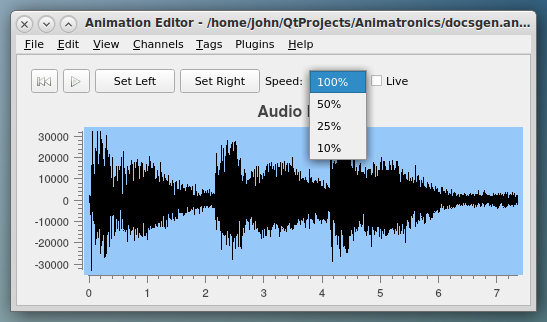
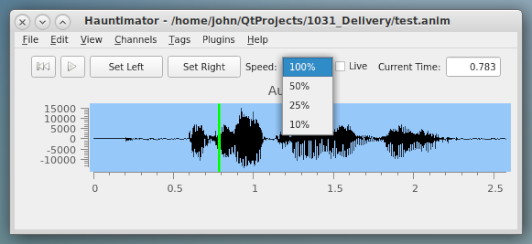
Made audio start time uneditable since the Pico can't do anything with that.
Added the current playback time display to the playback widget.

diff --git a/MainWindow.py b/MainWindow.py
@@ -2420,6 +2420,7 @@ class MetadataWidget(QDialog):
         self._audioedit = None
         if self._animatronics.newAudio is not None:
             self._audioedit = QLineEdit(str(self._animatronics.newAudio.audiostart))
+            self._audioedit.setReadOnly(True)
             layout.addRow(QLabel('Audio Start Time:'), self._audioedit)
             layout.addRow(QLabel('Audio File:'))
             self._audiofile = QLineEdit('')
@@ -3028,7 +3029,19 @@ class Player(QWidget):
         self.liveCheck.setToolTip('Enables real-time output to control animation')
         layout.addWidget(self.liveCheck)
 
+        tlabel = QLabel('Current Time:')
+        layout.addWidget(tlabel)
+        self._currTime = QLineEdit()
+        self._currTime.setAlignment(Qt.AlignRight)
+        self._currTime.setMaxLength(9)
+        self._currTime.setText('0.000')
+        self._currTime.setMinimumWidth(60)
+        self._currTime.setMaximumWidth(60)
+        self._currTime.setReadOnly(True)    # Read only for now but may want to be able to type here to set time
+        layout.addWidget(self._currTime)
+
         layout.addStretch()
+        layout.setContentsMargins(11,1,11,1)
 
         self.setLayout(layout)
 
@@ -3055,6 +3068,7 @@ class Player(QWidget):
         self._endPosition = int(maxTime * 1000)
 
     def setCurrentPosition(self, newTime):
+        self._currTime.setText('%.3f' % newTime)
         newTime = int(newTime * 1000)
         if self.mediaPlayer is not None:
             self.mediaPlayer.setPosition(newTime)
@@ -3111,6 +3125,7 @@ class Player(QWidget):
             # Send the updated position (time) to all the callbacks
             for cb in self.timeChangedCallbacks:
                 cb(float(self.currPosition) / 1000.0)
+        self._currTime.setText('%.3f' % (float(self.currPosition) / 1000.0))
 
     def rewind(self):
         """
@@ -3126,6 +3141,7 @@ class Player(QWidget):
         self.stopplaying()
         for cb in self.timeChangedCallbacks:
             cb(float(self.currPosition) / 1000.0)
+        self._currTime.setText('%.3f' % (float(self.currPosition) / 1000.0))
         pass
 
     def startplaying(self):

diff --git a/docs/Help.md b/docs/Help.md
@@ -57,7 +57,7 @@ The Hauntimator GUI consists of, from top to bottom, a menubar, audio channel di
 and control channel displays called panes.  When the user loads an audio file into Hauntimator
 it is displayed using one pane for mono or two panes for left and right stereo.  It is not
 necessary for there to be an audio file in use and none will be displayed in that case.
-However, without an audio file playback will not function.
+Playback will still function with no audio or outside the range of the audio.
 
 ![Image of User Interface](images/image1.png)
 
@@ -96,15 +96,15 @@ current channel under construction and any other channels that may be relevant o
 Channels are generally inserted and displayed from top to bottom but new channels may be
 inserted anywhere and the channels may be reordered as desired.
 
-The length of the audio generally determines the length of the animation.  (Although it is
-possible to circumvent this limitation, most of this discussion will assume such.)  In
-general, particularly once the user is working on the full audio, it will be challenging
+The length of the audio generally determines the length of the animation.  However,
+Hauntimator supports playback outside the audio time range or with no audio.  In
+general, particularly once the user is working on the full audio, it may be challenging
 to distinguish the synchronization of the knots with the audio.  Thus, the user will
 want to zoom in to a smaller subrange of the overall duration to construct, visualize,
-and modify the control channels.  Users may do this manually by clicking and dragging
+and modify the control channels.  Users may do this manually by ctrl-clicking and dragging
 within an audio pane, by setting limits by current playback position within the audio,
-by using the Zoom In (Ctrl-+) or Zoom Out (Ctrl--) hot keys, or by selecting a range1s
- from a markdown entry.  [See here for zoom details.](#zooming)
+by using the Zoom In (Ctrl-+) or Zoom Out (Ctrl--) hot keys, or by specifying a range
+via the View menu.  [See here for zoom details.](#zooming)
 
 Once the user has completed some or all of the channels, they may output the control
 information to a hardware controller.  This may be done by exporting a CSV file that
@@ -115,11 +115,23 @@ assigned port numbers will not be written to the CSV file.
 
 For larger systems with more control channels, it may be helpful to preprocess the
 control file to a binary format for faster updates on the controller.  This may be
-done within Hauntimator or in the controller when the CSV file is installed.
+done within Hauntimator or in the controller when the CSV file is installed.  Animator
+is capable of controlling hundreds of digital channels and tens of PWM channels at 50Hz.
+However, to do so certain measures must be taken.  To allow the data input thread to
+keep up, the control data must be written in binary format and the audio data should
+be at a lower sampling rate.  Since phoneme processing requires 16kHz, that is a good
+sampling rate to use generally.  Going down to 8kHz or even 4kHz is doable if needed.
+If you hear clicks and dropouts in the audio then you are exceeding the Pico's
+capabilities and need to reduce the audio sampling rate, the number of channels in use, or
+use binary data mode, or some combination thereof.  As a last resort, the animation
+sampling rate specified in the animation's metadata (Edit->Edit Metadata) may be
+reduced from the default 50Hz to 25Hz or less.  This will cut the data transfer rate
+needed in half.  The playback will not follow the control as closely but may be good enough.
 
 Hauntimator is intended to be agnostic to the specific hardware controller the user
 chooses.  It has been tested with a Raspberry Pi Pico and a Pico clone running
-MicroPython but not with any other devices.  Details of how Hauntimator communicates with
+MicroPython.  It has also been tested with a couple of interfaces to Pololu Maestro
+animation controllers.  Details of how Hauntimator communicates with
 the controller is bundled within a commlib.py file specific to the controller and
 compatible with the python code running on the controller.  For users with other
 types of controllers, they can use the Pico-specific examples included with Hauntimator
@@ -367,7 +379,7 @@ you will get the hang of it, or more likely decide you don't ever need to do tha
 
 ![Animation Metadata Popup](images/animmetadata.png)
 
-Each animation comes with some simple metadata that includes the start time (usually 0.0),
+Each animation comes with some simple metadata that includes the start time (always 0.0),
 the end time (usually unspecified), and the sample rate (usually 50Hz).  Usually, the
 animation playback will begin at time 0, which is when the audio will begin to play.
 The metadata can be used to change some behaviors but has not been well-tested so
@@ -483,8 +495,8 @@ that, by entering a negative number for the end time and saving the metadata.
 Playback within Hauntimator is constrained by the time range displayed.  Playback will commence
 at the left edge of the displayed audio pane and continue to the right unless stopped by the user.
 When playback reaches the right edge of the display, it automatically rewinds to the beginning
-of the displayed range.  However, if the left edge of the display is a time prior to the start
-of the audio, playback will jump to the start of the audio and proceed from there.
+of the displayed range.  However, if the green timebar is within the audio pane, playback will
+start at that point.
 
 ![Playback Controls](images/playback_controls.png)
 
@@ -497,6 +509,11 @@ Note that this can be very slow so it cannot play back motions very fast and smo
 for visual correlation.  WARNING - Using this live playback may damage your mechanisms if it is not
 set up properly and the initial conditions not set properly.  I wouldn't use it for anything other
 than lighting controls.
+
+At all times, the Current Time box will display the current playback time.  Usually this will be
+a value that is in the visible range in the display.  However, if the user has zoomed in or out
+or scrolled left or right, then the current playback time may not be visible.  It should match
+the position of the green bar at all times.
 
 <a name="channels">
 &nbsp;
@@ -789,7 +806,7 @@ on the controller can support either CSV or binary.
 
 ### Binary Control Files (.bin)
 
-Control files installed on the controller board in binary format are specialy formatted to contain entries
+Control files installed on the controller board in binary format are specially formatted to contain entries
 for every port defined in the tabledefs file.  Thus, they may be much larger than a simple CSV file.
 However, on playback they are slammed out to the hardware without reformatting so they perform much faster.
 